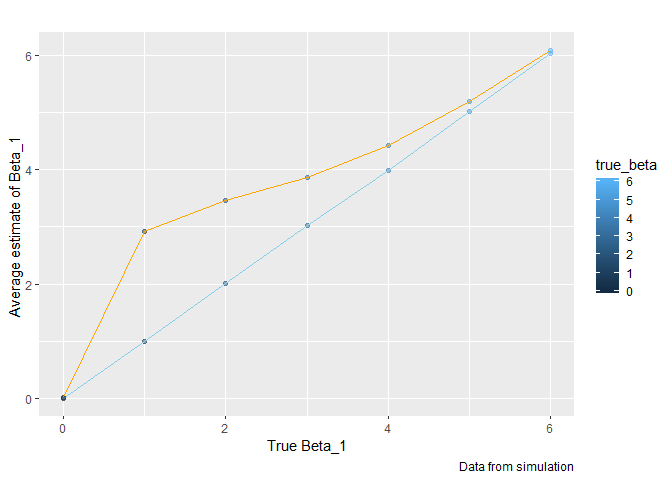
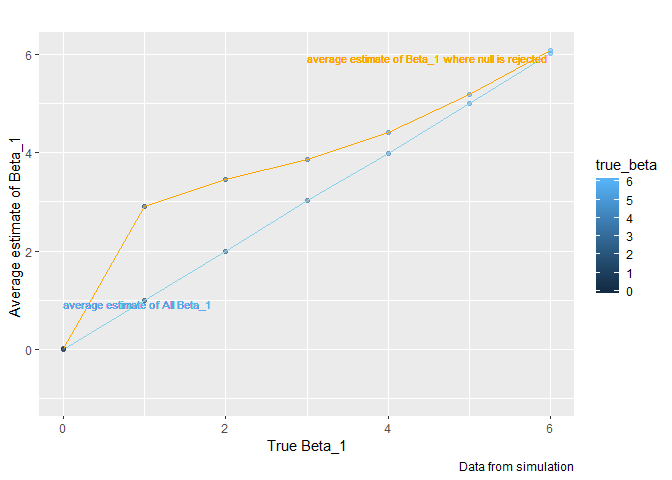
Final touch for comments and graphs

diff --git a/homework-5.md b/homework-5.md
@@ -299,325 +299,8 @@ summary_1
     ## # ... with 9,990 more rows
 
 ``` r
-kable(head(summary_1),digits = 3)
+#kable(head(summary_1),digits = 3)
 ```
-
-<table>
-
-<thead>
-
-<tr>
-
-<th style="text-align:left;">
-
-.
-
-</th>
-
-<th style="text-align:right;">
-
-beta\_1
-
-</th>
-
-<th style="text-align:right;">
-
-estimate
-
-</th>
-
-<th style="text-align:right;">
-
-p.value
-
-</th>
-
-</tr>
-
-</thead>
-
-<tbody>
-
-<tr>
-
-<td style="text-align:left;">
-
-list(x = c(-0.626453810742332, 0.183643324222082, -0.835628612410047,
-1.59528080213779, 0.329507771815361, -0.820468384118015,
-0.487429052428485, 0.738324705129217, 0.575781351653492,
--0.305388387156356, 1.51178116845085, 0.389843236411431,
--0.621240580541804, -2.2146998871775, 1.12493091814311,
--0.0449336090152309, -0.0161902630989461, 0.943836210685299,
-0.821221195098089, 0.593901321217509, 0.918977371608218,
-0.782136300731067, 0.0745649833651906, -1.98935169586337,
-0.61982574789471, -0.0561287395290008, -0.155795506705329,
--1.47075238389927, -0.47815005510862, 0.417941560199702), y =
-c(11.6073152434568, 1.27318100973014, 4.74125225407147, 1.6195409094181,
--7.7372815073125, -0.934454698647535, -0.788051000223179,
-1.58059094970313, 9.77835400007058, 7.39646746971448, 0.83664249423891,
-0.208462378826585, 6.92827528987355, 5.93620322619137,
--2.87023822196816, -3.00274623144556, 4.5779837772525, 7.4343484248998,
-1.20559231547951, 8.23037248331637, 4.81503367637794, -2.32768012932765,
-4.41208047002473, -5.98580303660563, 12.1330077707385, 16.0035419769464,
--0.596647962068047, -5.38314674740101, 6.02852611939604,
-1.04501973765406))
-
-</td>
-
-<td style="text-align:right;">
-
-0
-
-</td>
-
-<td style="text-align:right;">
-
-0.296
-
-</td>
-
-<td style="text-align:right;">
-
-0.798
-
-</td>
-
-</tr>
-
-<tr>
-
-<td style="text-align:left;">
-
-list(x = c(2.40161776050478, -0.0392400027331692, 0.689739362450777,
-0.0280021587806661, -0.743273208882405, 0.188792299514343,
--1.80495862889104, 1.46555486156289, 0.153253338211898,
-2.17261167036215, 0.475509528899663, -0.709946430921815,
-0.610726353489055, -0.934097631644252, -1.2536334002391,
-0.291446235517463, -0.443291873218433, 0.00110535163162413,
-0.0743413241516641, -0.589520946188072, -0.568668732818502,
--0.135178615123832, 1.1780869965732, -1.52356680042976,
-0.593946187628422, 0.332950371213518, 1.06309983727636,
--0.304183923634301, 0.370018809916288, 0.267098790772231), y =
-c(-1.83619592843732, 10.5409151638762, 10.2052855846451,
-6.95125819851436, 13.2206069631951, 5.94909538717862, -7.02687007410588,
--2.05359861826618, -6.65931884321217, -1.34744800244265,
--2.38665484287344, 2.29780419495881, -4.44118874821063,
-3.11743216589507, -2.62861240575578, 14.4966081247805, 7.06788716418861,
-8.43590369737316, 4.71660071751589, 13.8947811368509, -2.49533557634811,
--1.26432119336991, 12.1277648344586, -2.60111803919118,
-0.533596699115415, -0.777571506122737, -0.262691272819847,
-0.0263709074589977, 5.49443920222744, 0.746084134760805))
-
-</td>
-
-<td style="text-align:right;">
-
-0
-
-</td>
-
-<td style="text-align:right;">
-
-0.006
-
-</td>
-
-<td style="text-align:right;">
-
-0.996
-
-</td>
-
-</tr>
-
-<tr>
-
-<td style="text-align:left;">
-
-list(x = c(-0.505957462114257, 1.34303882517041, -0.214579408546869,
--0.179556530043387, -0.100190741213562, 0.712666307051405,
--0.0735644041263263, -0.0376341714670479, -0.681660478755657,
--0.324270272246319, 0.0601604404345152, -0.588894486259664,
-0.531496192632572, -1.51839408178679, 0.306557860789766,
--1.53644982353759, -0.300976126836611, -0.528279904445006,
--0.652094780680999, -0.0568967778473925, -1.91435942568001,
-1.17658331201856, -1.664972436212, -0.463530401472386,
--1.11592010504285, -0.750819001193448, 2.08716654562835,
-0.0173956196932517, -1.28630053043433, -1.64060553441858), y =
-c(5.1833035211261, 1.86876216429792, -0.24908304520935,
--4.57158276642605, -8.51793272046889, -5.60275764016486,
-9.0712714848798, -2.39301892816187, -7.78937611842287, 15.2178807512414,
-5.00591359525018, 0.312510166338842, 9.48460541513159, 8.26795467784576,
--2.37870958606872, 17.5995001266892, 0.196686576014221,
--8.07269826929436, 0.978940622575332, 3.46751767027385,
-18.3198717680695, 2.74813571803237, 5.23146954309047, 1.4544463622095,
--0.361742605594027, 1.75444989897421, 7.56945306272185,
-16.6741981824157, 9.26476160389645, 10.5412021955142))
-
-</td>
-
-<td style="text-align:right;">
-
-0
-
-</td>
-
-<td style="text-align:right;">
-
-\-2.155
-
-</td>
-
-<td style="text-align:right;">
-
-0.155
-
-</td>
-
-</tr>
-
-<tr>
-
-<td style="text-align:left;">
-
-list(x = c(-1.23132342155804, 0.983895570053379, 0.219924803660651,
--1.46725002909224, 0.521022742648139, -0.158754604716016,
-1.4645873119698, -0.766081999604665, -0.430211753928547,
--0.926109497377437, -0.17710396143654, 0.402011779486338,
--0.731748173119606, 0.830373167981674, -1.20808278630446,
--1.04798441280774, 1.44115770684428, -1.01584746530465,
-0.411974712317515, -0.38107605110892, 0.409401839650934,
-1.68887328620405, 1.58658843344197, -0.330907800682766,
--2.28523553529247, 2.49766158983416, 0.667066166765493, 0.5413273359637,
--0.0133995231459087, 0.510108422952926), y = c(0.837687346924892,
-4.97476035054121, -0.830171868144279, -7.68883281849036,
-8.98507137632915, 12.7462201320525, -0.183125501268262,
--6.86209684981829, 6.54133182402892, 1.6838586612127, -10.2557048874319,
-2.01507452436457, -2.45689640304737, -0.411011949908394,
--6.17820160552759, 14.7501387053009, -0.341457084003431,
--9.35269421090104, 3.39436817738181, 3.86093284216464,
--4.97084744934169, -18.427753972546, -2.52888955109698,
-6.03409818078081, 1.57769266515594, 1.30577144345521, 5.96560140237265,
--6.38952948936905, 9.75538485456056, 1.96221201365656))
-
-</td>
-
-<td style="text-align:right;">
-
-0
-
-</td>
-
-<td style="text-align:right;">
-
-\-0.454
-
-</td>
-
-<td style="text-align:right;">
-
-0.718
-
-</td>
-
-</tr>
-
-<tr>
-
-<td style="text-align:left;">
-
-list(x = c(0.707310667398079, 1.03410773473746, 0.223480414915304,
--0.878707612866019, 1.16296455596733, -2.00016494478548,
--0.544790740001725, -0.255670709156989, -0.166121036765006,
-1.02046390878411, 0.136221893102778, 0.407167603423836,
--0.0696548130129049, -0.247664341619331, 0.69555080661964,
-1.1462283572158, -2.40309621489187, 0.572739555245841,
-0.374724406778655, -0.425267721556076, 0.951012807576816,
--0.389237181718379, -0.284330661799574, 0.857409778079803,
-1.7196272991206, 0.270054900937229, -0.42218400978764,
--1.18911329485959, -0.33103297887901, -0.939829326510021), y =
-c(0.169070146065579, 4.78868184208184, -4.02353926371927,
-20.7324386611701, 3.10316913807054, 9.99177222963708, -14.1865508912168,
-7.23966943119973, -7.30725878659275, 8.50399417797749, 4.81520532714933,
--0.881662219289753, 11.3639225744316, -2.95845668507259,
--2.10556311782392, -5.07864927660281, -2.72473623879104,
-8.68346690005597, 5.06673730958566, 9.10754898991602,
--0.758555528197928, 4.66133985551013, 3.72650673832301,
--8.08516238515796, 14.5753940903465, 2.95068852760872, 7.4136024397416,
-8.75383621202326, 1.64244649614716, -0.162441571086358))
-
-</td>
-
-<td style="text-align:right;">
-
-0
-
-</td>
-
-<td style="text-align:right;">
-
-\-0.514
-
-</td>
-
-<td style="text-align:right;">
-
-0.730
-
-</td>
-
-</tr>
-
-<tr>
-
-<td style="text-align:left;">
-
-list(x = c(0.893673702425513, -1.0472981490613, 1.97133738622415,
--0.383632106288362, 1.65414530227499, 1.51221269395063,
-0.082965733585914, 0.5672209148515, -1.02454847953446,
-0.323006503022436, 1.04361245835618, 0.0990784868971982,
--0.45413690915436, -0.65578185245044, -0.0359224226225114,
-1.0691614606768, -0.483974930301277, -0.121010111327444,
--1.29414000382084, 0.494312836014856, 1.30790152011415,
-1.49704100940278, 0.814702730897356, -1.86978879020261,
-0.48202950412376, 0.456135603301202, -0.353400285829911,
-0.170489470947982, -0.864035954126904, 0.679230774015656), y =
-c(-0.312953455942104, -9.09508653354294, -0.598269214402721,
-11.6480119083308, -0.363726198256996, 7.18132523760785,
-8.69337125157664, 2.03110353657614, -0.491294914175769,
--1.74551286472361, 7.22968556696446, -5.51977949991016,
-3.74097357066248, -0.0470696524683496, -14.0151862260986,
--7.96207711167116, 8.47723479087179, 0.647453569783142,
-7.68007009341441, 15.3464599232195, 12.4219137782551, 6.7890114359851,
-4.68674192269204, 0.636709252499232, 13.1573798815551, 6.216011818738,
--6.29844213134302, 0.899441081379922, -11.5687414639826,
-0.619311458285083))
-
-</td>
-
-<td style="text-align:right;">
-
-0
-
-</td>
-
-<td style="text-align:right;">
-
-1.709
-
-</td>
-
-<td style="text-align:right;">
-
-0.243
-
-</td>
-
-</tr>
-
-</tbody>
-
-</table>
 
 ``` r
 #data_2 = append(rerun(10000, simulate_fun(30,2,1,50)),
@@ -696,6 +379,9 @@ ggplot(plot_1,aes(x = true_beta, y = p_reject, col = true_beta)) +
 
 ![](homework-5_files/figure-gfm/unnamed-chunk-10-1.png)<!-- -->
 
+We can tell from the graph that the power of test increases along with
+the increase of effective size.
+
 ``` r
 plot_2 = summary_final%>%
          group_by(true_beta)%>%
@@ -727,6 +413,9 @@ ggplot(plot_2,aes(x = true_beta, y = mean_beta, col = true_beta)) +
   geom_line(col = "sky blue")+
   geom_point(data = plot_3,alpha = 0.5)+
   geom_line(data = plot_3,col="orange")+
+  geom_text(data=plot_2, mapping=aes(x=0,y=-1,label="average estimate of All Beta_1"), size=3, angle=360, vjust= -10, hjust=0)+
+  geom_text(data=plot_3, mapping=aes(x=3,y=4.0, label="average estimate of Beta_1 where null is rejected"), size=3, angle=360, vjust= -10, hjust=0,col = "orange")+
+
   labs(
     title = "",
     x = "True Beta_1",
@@ -735,3 +424,16 @@ ggplot(plot_2,aes(x = true_beta, y = mean_beta, col = true_beta)) +
 ```
 
 ![](homework-5_files/figure-gfm/unnamed-chunk-12-1.png)<!-- -->
+
+In our simulation for **beta\_1** ranging from 0 to 6, we conclude blow:
+
+  - The average **beta\_1 estimates** where null is rejected is not the
+    same with all the average of **beta\_1 estimates**, which
+    approximate the true **beta\_1**. When the null is rejected, the
+    **beta\_1 estimates** is significantly different from true
+    **beta\_1**, and if we only contain those in observation, it is
+    possible that the average deviated from null.
+
+  - But we can see when **beta\_1 estimates** \>4, the approximate is
+    more likely to approach the true **beta\_1**. This can be related to
+    the increasing effective size.
